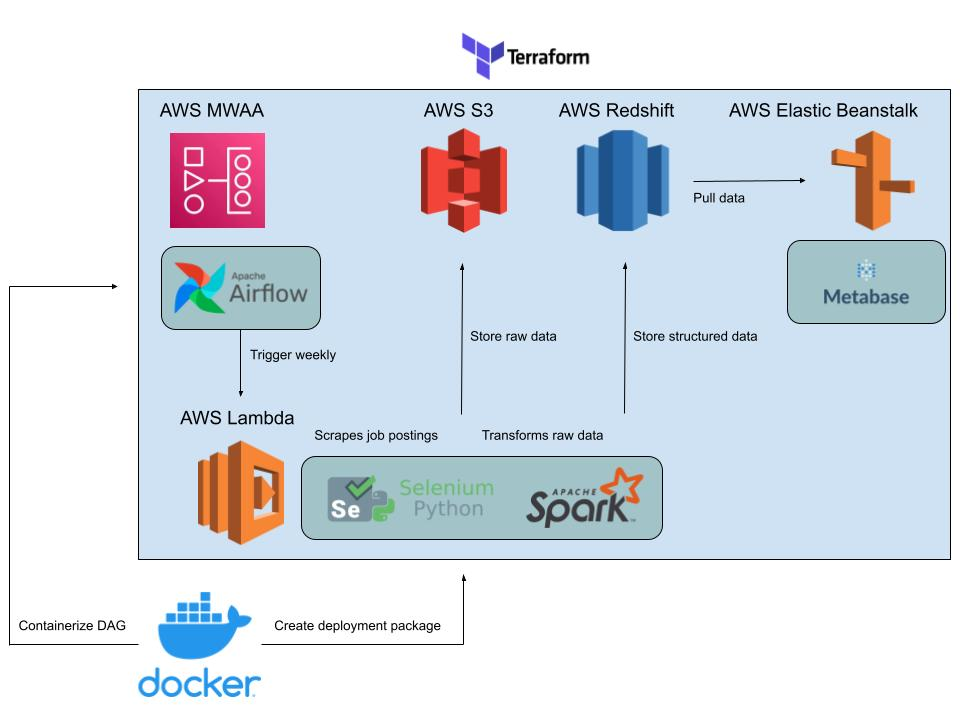
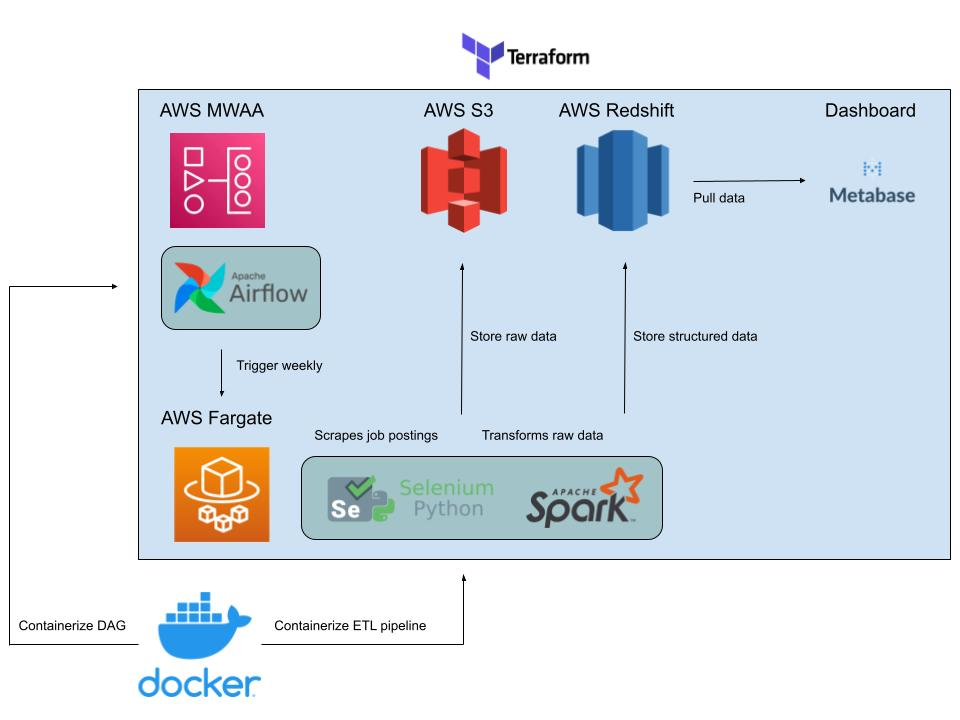
updating to aws fargate

diff --git a/containers/lambda/src/etl.py b/containers/lambda/src/etl.py
@@ -28,6 +28,9 @@ options.add_argument("--remote-debugging-port=9222")
 # get from terraform directory: "mzheng-${var.aws_s3_bucket}"
 bucket_name = 'mzheng-indeed-job-posts'
 
+# jobs to scrape
+jobs = [['software engineer', '', 1]]
+
 def get_page_links(job, location, no_of_pages):
     # modify url to include job
     job = job.replace(' ', '%20')
@@ -110,16 +113,20 @@ def upload_to_s3(job_links, bucket_name, directory):
         response = client.put_object(Bucket=bucket_name, Body=scraped_posting, Key=f'{directory}/{file_name}.txt')
 
 # this is the lambda_handler function, which takes two parameters: 'event' and 'context'
-# 'context' here is just a placeholder parameter
-def indeed_scraper(event, context=None):
+# 'event' and 'context' are just placeholder parameters
+def indeed_scraper(event, context):
     # scrape postings for each 'job' type
-    for i in range(len(event)):
-        page_links = get_page_links(event[str(i)][0], event[str(i)][1], int(event[str(i)][2]))
+    for job in jobs:
+        page_links = get_page_links(job[0], job[1], job[2])
         job_links = get_job_links(page_links)
-        upload_to_s3(job_links, bucket_name, event[str(i)][0])
+        upload_to_s3(job_links, bucket_name, job[0])
     
     return "Scraper runs without issue!"
 
 if __name__ == '__main__':
-    # the parameters are passed to the function when we use the lambda emulator via the command line
+    # normally, the parameters are passed to the function when we use the lambda emulator via the command line
+    # however, we simply pass in the 'jobs' variable of this script into the function and ignore 'event' and 'context'
+    event = None
+    context = None
+    
     indeed_scraper(event, context)

diff --git a/README.md b/README.md
@@ -1,11 +1,11 @@
-# Skills Gap Dashboard
+# Job Extraction Pipeline
 
-Software engineering is one of the most in-demand, highest paying jobs currently. There's lots of room for growth and the industry is expected to grow by 25% through the next decade according to the Bureau of Labor Statistics (https://www.bls.gov/ooh/computer-and-information-technology/software-developers.htm). But this industry is constantly changing and new tools are being developed all the time. This project aims to track the most sought after technologies by the industry so that aspiring software engineers can keep up to date with them.  
+Software engineering is one of the most in-demand, highest paying jobs currently. There's lots of room for growth and the industry is expected to grow by 25% through the next decade according to the Bureau of Labor Statistics (https://www.bls.gov/ooh/computer-and-information-technology/software-developers.htm). But this industry is constantly changing and new positions are opening up all the time. This project aims to track the number of positions open for the various specialities within software engineering so that aspiring software engineers can pivot into growing fields, learn the necessary skills, and get a job with a good growth outlook.
 
 ## Technologies:
 
 * Python (Selenium, Boto3, PySpark)
-* AWS (S3, Lambda, MWAA, Redshift, Elastic Beanstalk)
+* AWS (S3, Fargate, MWAA, Redshift)
 * Airflow
 * Docker
 * Terraform
@@ -88,9 +88,9 @@ terraform apply
 terraform destroy
 ```
 
-### 2) Test and Deploy Lambda Package
+### 2) Test and Deploy Container to AWS Fargate
 
-AWS Lambda is used to execute the lambda function that will:
+AWS Fargate is used to host and execute a container that will:
     - Scrape Indeed.com using Selenium and Python
     - Upload the raw job postings to AWS S3
     - Transform the raw data using PySpark
@@ -98,7 +98,7 @@ AWS Lambda is used to execute the lambda function that will:
 
 By default, the script only scrapes one type of job: Software Engineer. In the future, there is room to scrape other jobs as well! But for now, we will scrape 20 pages of that one job every week.  
 
-I encountered a lot of difficulty running headless Chrome in a container. After days of searching, I stumbled across this repo: https://github.com/umihico/docker-selenium-lambda  
+At first, I intended to use AWS Lambda to trigger the pipeline to run. However, I realized this wasn't necessary and it only added an extra layer of complexity. I encountered a lot of difficulty running headless Chrome in a container. After days of searching, I stumbled across this repo: https://github.com/umihico/docker-selenium-lambda. The repo provides a Dockerfile that builds a container that runs Chrome using the AWS Lambda RIE (Runtime Interface Emulator). Even though I won't be using AWS Lambda, this Dockerfile provides a convenient way to Dockerize my selenium web crawler for deployment to AWS Fargate.
 
 #### Steps
 
@@ -119,48 +119,12 @@ docker run \
     scraper:latest
 ```
 
-3. Test the lambda function in the container with inputs
-```bash
-curl -XPOST "http://localhost:9000/2015-03-31/functions/function/invocations" -d '{"0": ["data analyst", "boston", "1"], "1": ["data scientist", "new york", "1"]}'
-```
-
-4. Delete the image and container (when they are no longer needed)
+3. Delete the image and container (when they are no longer needed)
 ```bash
 docker kill scraper
 docker rm scraper
 docker image rm scraper:latest
 ```
-
-5. Build the lambda deployment package (when finished testing)
-    - Install chromedriver and headless-chrome
-    ```bash
-    mkdir -p bin/
-
-    curl -SL https://chromedriver.storage.googleapis.com/2.37/chromedriver_linux64.zip > chromedriver.zip
-    unzip chromedriver.zip -d bin/
-
-    curl -SL https://github.com/adieuadieu/serverless-chrome/releases/download/v1.0.0-37/stable-headless-chromium-amazonlinux-2017-03.zip > headless-chromium.zip
-    unzip headless-chromium.zip -d bin/
-
-    rm headless-chromium.zip chromedriver.zip
-    ```
-
-    - Install Python dependencies
-    ```bash
-    mkdir -p lib/
-    python3 -m pip install -r requirements.txt -t lib/.
-    ```
-
-    - Build zip file to be uploaded to AWS Lambda
-    ```bash
-    mkdir build
-    cp -r src build/.
-    cp -r bin build/.
-    cp -r lib build/.
-    cd build; zip -9qr build.zip .
-    cp build/build.zip .
-    rm -rf build
-    ```
 
 ### 3) Test and Deploy Airflow DAG to AWS MWAA
 
